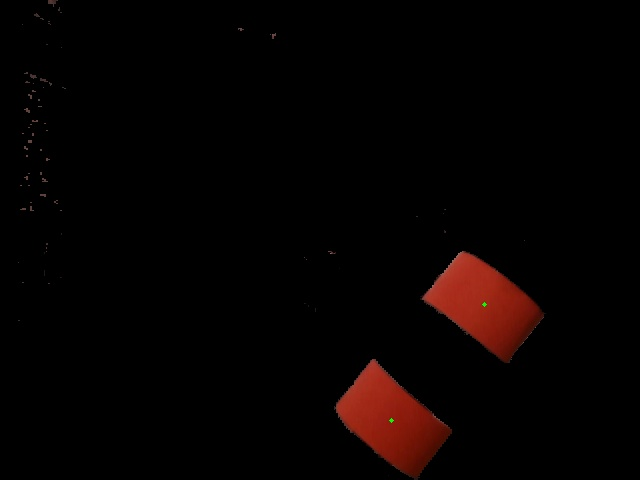
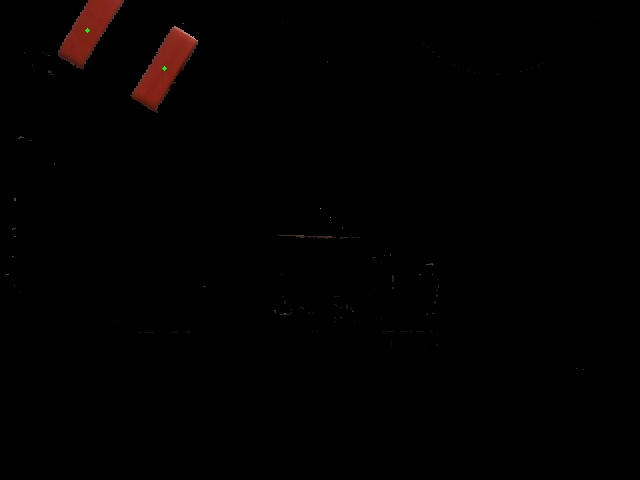
Fixing rotation processing

diff --git a/rotation_bags_to_csv.py b/rotation_bags_to_csv.py
@@ -7,6 +7,8 @@ import pandas as pd
 from grasp_executor.srv import AngleTrack
 from std_srvs.srv import Empty
 
+import pdb
+
 FILE_DIR = './'
 CSV_NAME = 'data'
 BAG_DIR = 'data_bags/'
@@ -31,19 +33,22 @@ def tactile_data_to_df(df, image_data, tactile_data_0, tactile_data_1, track_ang
 
     for im, tac_0, tac_1 in itertools.izip(image_data, tactile_data_0, tactile_data_1):
         new_row = pd.Series(dtype='int64')
+        print(type(im))
         response = track_angle_srv(im) #TODO: Call the blob_detector service here to get the angle
         new_row['true_angle'] = response.angle
+        print(response.angle)
 
         for i in range(2):
             tac = tac_0 if i==0 else tac_1
             for attr in cols_sensor:
                 new_row[attr+'_sensor_'+str(i)] = getattr(tac, attr)
             
+            # pdb.set_trace()
             for j in range(9):
                 for attr in cols_pillar:
                     df[attr+'_pillar_'+str(j)+'_sensor_'+str(i)] = getattr(tac.pillars[j], attr)
 
-        df.append(new_row, ignore_index=True)
+        df = df.append(new_row, ignore_index=True)
 
     return df
 
@@ -57,9 +62,9 @@ def main(track_angle_srv, reset_angle_srv):
         df = pd.DataFrame() 
         df = init_df(df)
 
-        image_data = [msg for _, msg, _ in bag.read_message(topics=['image'])]
-        tactile_data_0 = [msg for _, msg, _ in bag.read_message(topics=['tactile_0'])]
-        tactile_data_1 = [msg for _, msg, _ in bag.read_message(topics=['tactile_1'])]
+        image_data = [msg for _, msg, _ in bag.read_messages(topics=['image'])]
+        tactile_data_0 = [msg for _, msg, _ in bag.read_messages(topics=['tactile_0'])]
+        tactile_data_1 = [msg for _, msg, _ in bag.read_messages(topics=['tactile_1'])]
 
         if len(image_data) == len(tactile_data_0) == len(tactile_data_1):
             df = tactile_data_to_df(df, image_data, tactile_data_0, tactile_data_1, track_angle_srv)

diff --git a/blob_detector.py b/blob_detector.py
@@ -5,8 +5,9 @@ import cv2
 import rospy
 from time import sleep
 from sensor_msgs.msg import Image
+from std_msgs.msg import Empty as EmptyMsg
 from cv_bridge import CvBridge, CvBridgeError
-from std_srvs.srv import Empty
+from std_srvs.srv import Empty, EmptyResponse
 from grasp_executor.srv import AngleTrack
 
 from enum import Enum
@@ -44,6 +45,8 @@ class AngleDetector():
         self.state = Quadrant.INIT
         self.closest_state = Quadrant.INIT
         self.angle = None
+        print('reset!')
+        return EmptyResponse()
 
     def angle_calculation(self, point0, point1):
         temp_angle = np.arctan(np.abs(float(point0[1]-point1[1])/float(point0[0]-point1[0])))*180/np.pi
@@ -103,9 +106,9 @@ class AngleDetector():
 
         print("Reached loop!")
         # image = cv2.imread('img_temp.jpeg')
-        image = req.im
-        result = req.im.copy()
-        image = cv2.cvtColor(req.im, cv2.COLOR_BGR2HSV)
+        im = self.bridge.imgmsg_to_cv2(req.im, desired_encoding='bgr8')
+        result = im.copy()
+        image = cv2.cvtColor(im, cv2.COLOR_BGR2HSV)
         lower = np.array([0,85,0])
         upper = np.array([7,255,255])
         mask = cv2.inRange(image, lower, upper)

diff --git a/unpack_bag_imgs.py b/unpack_bag_imgs.py
@@ -10,7 +10,7 @@ import numpy as np
 
 FILENAME = 'Indoor'
 ROOT_DIR = '/home/Dataset'
-BAGFILE = 'data_1642137260.bag'
+BAGFILE = 'data_1642136892.bag'
 
 if __name__ == '__main__':
     bag = rosbag.Bag(BAGFILE)
